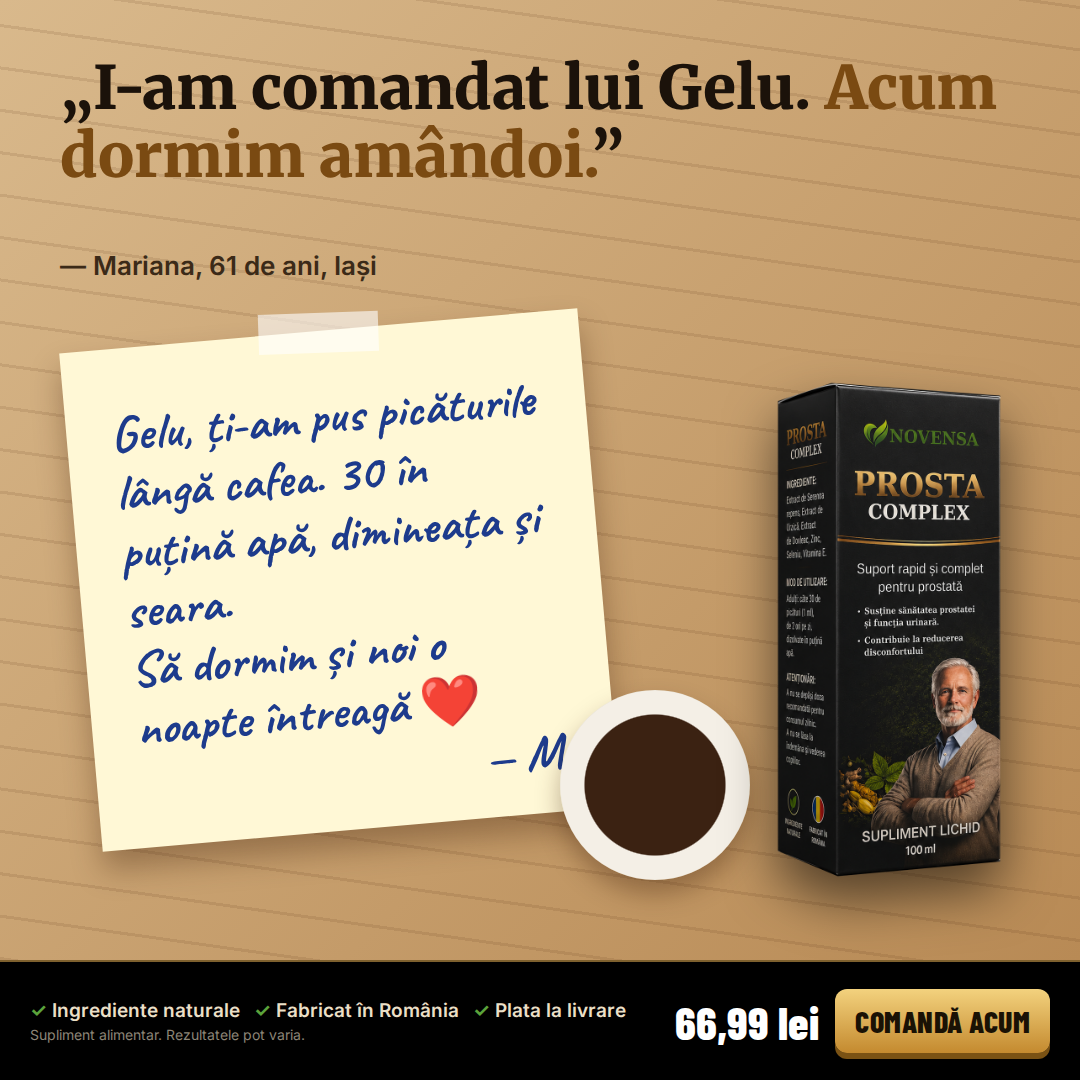
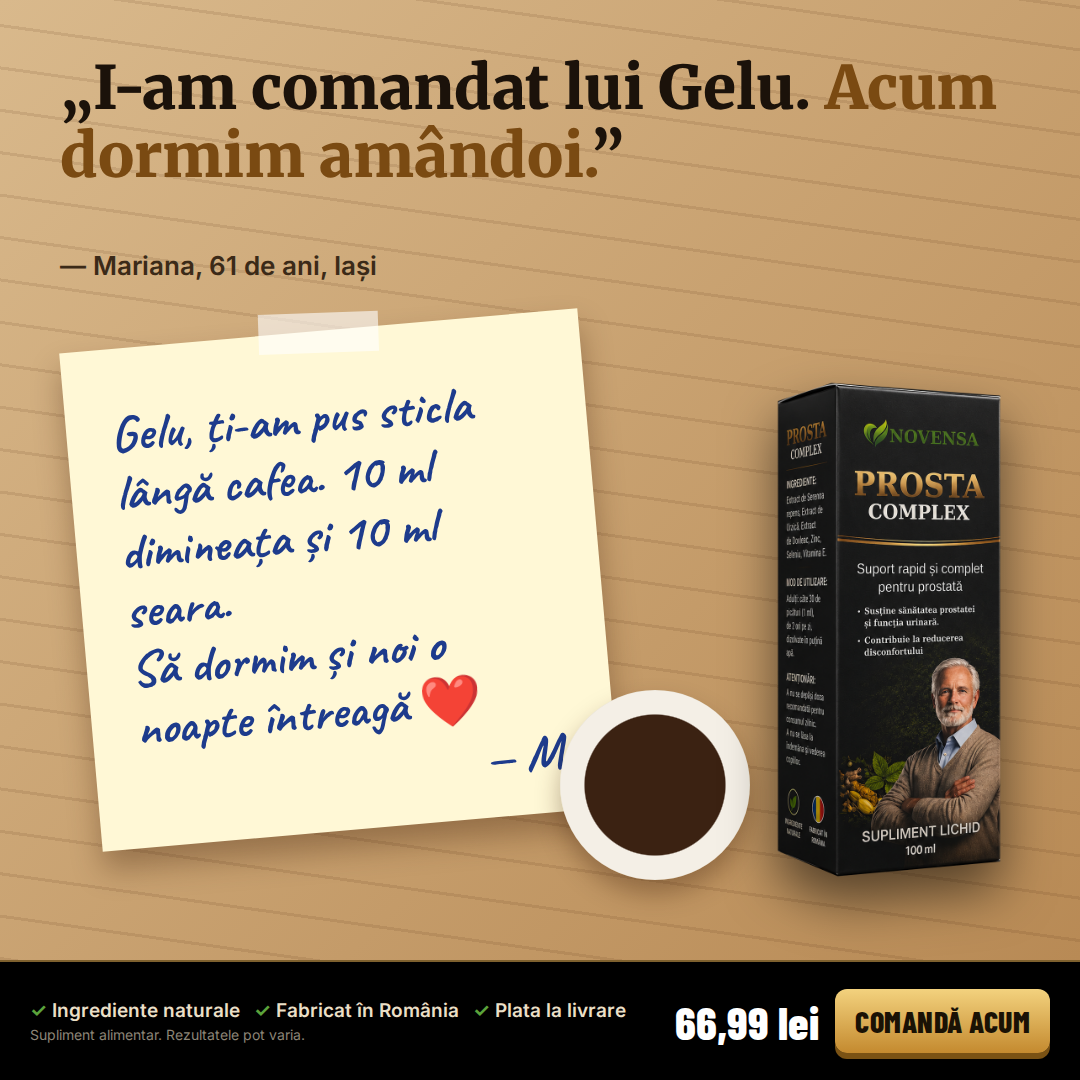
Update dosage to 10 ml twice a day and 15-day full cure across all ads
Claude-Session: https://claude.ai/code/session_01L9cV6zALUeAnbbGBkdurjz

diff --git a/brand/ads/ads.js b/brand/ads/ads.js
@@ -71,7 +71,7 @@ function chatAd() {
   const msgs = [
     ['in', 'Iar n-am dormit bine… m-am sculat de 4 ori azi-noapte 😔', '22:47'],
     ['out', 'Tată, ți-am comandat ceva. Vine mâine acasă, plătești la curier 📦', '22:49'],
-    ['out', 'Se numește PROSTA COMPLEX, de la Novensa. 30 de picături în puțină apă, de 2 ori pe zi. Te rog să le iei ❤', '22:50'],
+    ['out', 'Se numește PROSTA COMPLEX, de la Novensa. Iei câte 10 ml dimineața și seara. Te rog să-l iei ❤', '22:50'],
     ['in', 'Bine, mamă. Mulțumesc 🙏', '22:52'],
   ];
   return page(`
@@ -109,7 +109,7 @@ function noteAd() {
   `, `<div class="table"></div>
     <div class="h">„I-am comandat lui Gelu. <em>Acum dormim amândoi.</em>”</div>
     <div class="who">— Mariana, 61 de ani, Iași</div>
-    <div class="note">Gelu, ți-am pus picăturile lângă cafea. 30 în puțină apă, dimineața și seara.<br>Să dormim și noi o noapte întreagă ❤<br><span style="float:right">— M.</span></div>
+    <div class="note">Gelu, ți-am pus sticla lângă cafea. 10 ml dimineața și 10 ml seara.<br>Să dormim și noi o noapte întreagă ❤<br><span style="float:right">— M.</span></div>
     <div class="cup"></div>
     ${productBox(1.0, 'left:735px;top:400px')}${footer()}`);
 }
@@ -150,7 +150,7 @@ function routeAd() {
       <circle cx="600" cy="900" r="18" fill="#f3d27e"/><circle cx="1040" cy="40" r="18" fill="#5ba33b"/></svg>
     <div class="panel"></div>
     <div class="col">${tag('wheel', '<b>Petre, 58</b> · taximetrist, București')}<div class="h">„Ruta mea nu mai depinde <em>de toalete.</em>”</div><div class="rule" style="width:160px"></div>
-    <div class="sub">30 de picături dimineața, 30 seara.<br>PROSTA COMPLEX: Serenoa, urzică și dovleac pentru sănătatea prostatei.</div></div>
+    <div class="sub">10 ml dimineața, 10 ml seara.<br>PROSTA COMPLEX: Serenoa, urzică și dovleac pentru sănătatea prostatei.</div></div>
     ${productBox(1.0, 'left:720px;top:430px')}${footer()}`);
 }
 
@@ -168,7 +168,7 @@ function labelAd() {
   `, `<div class="bg"></div>
     <div class="who">${tag('glasses', '<b>Domnul Vasile, 70</b> · profesor de matematică, Cluj')}</div>
     <div class="h">„Am citit eticheta înainte să cumpăr. <em>Asta m-a convins.</em>”</div>
-    <div class="lab"><b>INGREDIENTE:</b><br><span class="hl">Extract de Serenoa repens</span>, extract de urzică, extract de dovleac, zinc, seleniu, vitamina E.<br><br><b>MOD DE UTILIZARE:</b><br>30 de picături (1 ml), de 2 ori pe zi, în puțină apă.</div>
+    <div class="lab"><b>INGREDIENTE:</b><br><span class="hl">Extract de Serenoa repens</span>, extract de urzică, extract de dovleac, zinc, seleniu, vitamina E.<br><br><b>MOD DE UTILIZARE:</b><br>10 ml, de 2 ori pe zi.<br>O cutie = 5 zile.</div>
     <div class="mag"></div>
     ${productBox(1.0, 'left:730px;top:400px')}${footer()}`);
 }
@@ -187,9 +187,9 @@ function compareAd() {
     .drop{position:absolute;width:26px;height:26px;background:#e3a33b;border-radius:0 50% 50% 50%;transform:rotate(45deg)}
     .cap{position:absolute;top:800px;font:600 26px/1.3 Inter;color:#eadfc6;text-align:center;width:420px}
   `, `<div class="l"></div><div class="r"></div>
-    <div class="h">„Nu încă o pastilă de înghițit.<br><em>30 de picături în puțină apă.</em>”</div>
+    <div class="h">„Nu încă o pastilă de înghițit.<br><em>10 ml dimineața, 10 ml seara.</em>”</div>
     <div class="lab" style="left:120px;color:#c9ccd2">Încă o capsulă?</div>
-    <div class="lab" style="left:640px;color:#f0c66a">Picături</div>
+    <div class="lab" style="left:640px;color:#f0c66a">Lichid</div>
     ${pills}<svg class="x" viewBox="0 0 400 400"><path d="M40 40L360 360M360 40L40 360" stroke="#e8463a" stroke-width="22" stroke-linecap="round" opacity=".85"/></svg>
     <div class="glass"></div><div class="drop" style="left:660px;top:470px"></div><div class="drop" style="left:664px;top:520px;transform:rotate(45deg) scale(.7)"></div>
     <div class="cap" style="left:60px">${tag('glasses', '<b>Domnul Vasile, 70</b>')}</div>
@@ -243,7 +243,7 @@ function odoAd() {
     .odo i{font:700 40px Barlow;color:#f0c66a;margin-left:10px;font-style:normal}
     .shade{position:absolute;left:0;top:0;width:800px;height:${H}px;background:linear-gradient(90deg,rgba(0,0,0,.8),rgba(0,0,0,0))}
   `, `${scene('road')}<div class="shade"></div>
-    <div class="col">${tag('truck', '<b>Dorin, 52</b> · șofer de TIR')}<div class="h">Kilometri,<br><em>nu opriri.</em></div><div class="odo">${digits}<i>km azi</i></div><div class="rule" style="width:160px"></div><div class="sub">30 de picături dimineața, 30 seara.<br>Între ele: drumul.</div></div>
+    <div class="col">${tag('truck', '<b>Dorin, 52</b> · șofer de TIR')}<div class="h">Kilometri,<br><em>nu opriri.</em></div><div class="odo">${digits}<i>km azi</i></div><div class="rule" style="width:160px"></div><div class="sub">10 ml dimineața, 10 ml seara.<br>Între ele: drumul.</div></div>
     ${productBox(1.05, 'left:720px;top:400px')}${footer()}`);
 }
 
@@ -281,7 +281,7 @@ module.exports = [
   { id: '01A-costica-natura', html: quoteAd({ sceneKey: 'honey', icon: 'bee', who: '<b>Nea Costică, 64</b> · apicultor, Vâlcea', quote: 'Am încredere în ce-mi dă natura. <em>De-asta am ales plantele.</em>', size: 64, sub: 'Serenoa repens, urzică și dovleac, plus zinc, seleniu și vitamina E. Supliment lichid fabricat în România.' }) },
   { id: '01B-costica-ingrediente', html: ingredientsAd() },
   // 2. Petre – taximetrist
-  { id: '02A-petre-12ore', html: quoteAd({ sceneKey: 'city', icon: 'wheel', who: '<b>Petre, 58</b> · taximetrist, București', quote: '12 ore pe zi la volan. <em>Nu-mi permit să caut toaleta la fiecare colț.</em>', size: 60, sub: 'PROSTA COMPLEX susține sănătatea prostatei și funcția urinară. 30 de picături, de 2 ori pe zi.' }) },
+  { id: '02A-petre-12ore', html: quoteAd({ sceneKey: 'city', icon: 'wheel', who: '<b>Petre, 58</b> · taximetrist, București', quote: '12 ore pe zi la volan. <em>Nu-mi permit să caut toaleta la fiecare colț.</em>', size: 60, sub: 'PROSTA COMPLEX susține sănătatea prostatei și funcția urinară. 10 ml, de 2 ori pe zi.' }) },
   { id: '02B-petre-ruta', html: routeAd() },
   // 3. Mariana – soția
   { id: '03A-mariana-dormim', html: noteAd() },
@@ -296,7 +296,7 @@ module.exports = [
   { id: '06A-fanica-pescuit', html: quoteAd({ sceneKey: 'dawn', icon: 'fish', who: '<b>Nea Fănică, 67</b> · pescar, Tulcea', quote: 'Vreau să stau la pescuit cu nepotul, <em>nu să fug la mal la fiecare oră.</em>', size: 56, sub: 'PROSTA COMPLEX: Serenoa, urzică și dovleac pentru sănătatea prostatei.', box: { s: .95, x: 760, y: 120 } }) },
   { id: '06B-fanica-nepoti', html: nepotAd() },
   // 7. Dorin – șofer de TIR
-  { id: '07A-dorin-autostrada', html: quoteAd({ sceneKey: 'road', icon: 'truck', who: '<b>Dorin, 52</b> · șofer de TIR', quote: 'Pe autostradă în Germania nu oprești când vrei. <em>Trebuia să fac ceva.</em>', size: 58, sub: '30 de picături dimineața, 30 seara. Supliment lichid pentru sănătatea prostatei și funcția urinară.', box: { s: 1.0, x: 740, y: 420 } }) },
+  { id: '07A-dorin-autostrada', html: quoteAd({ sceneKey: 'road', icon: 'truck', who: '<b>Dorin, 52</b> · șofer de TIR', quote: 'Pe autostradă în Germania nu oprești când vrei. <em>Trebuia să fac ceva.</em>', size: 58, sub: '10 ml dimineața, 10 ml seara. Supliment lichid pentru sănătatea prostatei și funcția urinară.', box: { s: 1.0, x: 740, y: 420 } }) },
   { id: '07B-dorin-kilometri', html: odoAd() },
   // 8. Domnul Aurel – discretul
   { id: '08A-aurel-jena', html: quoteAd({ sceneKey: 'elegant', icon: 'tie', who: '<b>Domnul Aurel, 62</b>', quote: 'Îmi era jenă să întreb pe cineva. <em>Am comandat discret, online.</em>', size: 64, sub: 'Fără rețetă, fără cozi la farmacie. Colet discret, plata la livrare.' }) },
@@ -305,6 +305,6 @@ module.exports = [
   { id: '09A-cuplu-prima-noapte', html: quoteAd({ sceneKey: 'sunrise', icon: 'moon', who: '<b>Gelu & Mariana</b> · 63 și 61, Ploiești', quote: 'Prima noapte întreagă de dormit, <em>după mult timp.</em>', size: 70, sub: 'PROSTA COMPLEX susține sănătatea prostatei și funcția urinară. Ingrediente naturale, fabricat în România.' }) },
   { id: '09B-cuplu-inainte-acum', html: splitAd() },
   // 10. Nea Ilie – tâmplar
-  { id: '10A-ilie-pastile', html: quoteAd({ sceneKey: 'wood', icon: 'saw', who: '<b>Nea Ilie, 66</b> · tâmplar, Maramureș', quote: 'Toată viața am lucrat cu mâinile. <em>Nu vreau să stau pe pastile.</em>', size: 62, sub: 'Supliment lichid: 30 de picături în puțină apă, de 2 ori pe zi. Ingrediente naturale.' }) },
+  { id: '10A-ilie-pastile', html: quoteAd({ sceneKey: 'wood', icon: 'saw', who: '<b>Nea Ilie, 66</b> · tâmplar, Maramureș', quote: 'Toată viața am lucrat cu mâinile. <em>Nu vreau să stau pe pastile.</em>', size: 62, sub: 'Supliment lichid: 10 ml, de 2 ori pe zi. Ingrediente naturale.' }) },
   { id: '10B-ilie-romania', html: madeAd() },
 ];

diff --git a/brand/premium/ads.js b/brand/premium/ads.js
@@ -104,7 +104,7 @@ ads.push({ id: 'P04-noi-vs-ei', html: page(`body{background:${C.cream}}
   `${logo(56, 56)}
   <div class="abs h" style="left:56px;top:140px;font-size:80px;color:${C.forest}">De ce <span class="it" style="color:${C.gold}">lichid?</span></div>
   <table><tr><th></th><th class="us">PROSTA<br>COMPLEX</th><th class="them">Capsule<br>obișnuite</th></tr>
-  <tr><td>Se dizolvă în puțină apă</td><td class="us ok">✓</td><td class="them no">✕</td></tr>
+  <tr><td>Formă lichidă, ușor de luat</td><td class="us ok">✓</td><td class="them no">✕</td></tr>
   <tr><td>Fără pastile de înghițit</td><td class="us ok">✓</td><td class="them no">✕</td></tr>
   <tr><td>Serenoa + urzică + dovleac</td><td class="us ok">✓</td><td class="them">?</td></tr>
   <tr><td>Zinc, seleniu, vitamina E</td><td class="us ok">✓</td><td class="them">?</td></tr>
@@ -142,9 +142,9 @@ ads.push({ id: 'P07-ritual', html: page(`body{background:${C.cream}}
   `${logo(56, 56)}
   <div class="abs h" style="left:56px;top:140px;font-size:78px;color:${C.forest}">Ritualul de <span class="it" style="color:${C.gold}">1 minut</span></div>
   <div class="line"></div>
-  <div class="step" style="top:300px"><div class="n">AM</div><div><b>30 de picături dimineața</b><span>dizolvate în puțină apă, lângă cafea</span></div></div>
-  <div class="step" style="top:500px"><div class="n">PM</div><div><b>30 de picături seara</b><span>același gest simplu, înainte de culcare</span></div></div>
-  <div class="step" style="top:700px"><div class="n">30</div><div><b>Zile de consecvență</b><span>pentru funcția urinară și confortul tău</span></div></div>
+  <div class="step" style="top:300px"><div class="n">AM</div><div><b>10 ml dimineața</b><span>un gest simplu, lângă cafea</span></div></div>
+  <div class="step" style="top:500px"><div class="n">PM</div><div><b>10 ml seara</b><span>același gest, înainte de culcare</span></div></div>
+  <div class="step" style="top:700px"><div class="n">15</div><div><b>Zile: cura completă</b><span>3 cutii, pentru funcția urinară și confortul tău</span></div></div>
   ${prod(700, 720, 200, -3)}${disc()}${foot(C.forest, '#fff')}`) });
 
 // 8. Stat
@@ -206,7 +206,7 @@ ads.push({ id: 'A01-cura-completa-190', html: page(`body{background:${RED};color
   `${tape(0, YEL, BLK, 'Transport gratuit la cura completă')}
   ${logo(56, 100, 44, 'filter:brightness(0) invert(1)')}
   <div class="abs big" style="left:56px;top:180px;font-size:88px">Cura<br>completă</div>
-  <div class="abs" style="left:60px;top:400px;font:800 34px Archivo">3 cutii PROSTA COMPLEX</div>
+  <div class="abs" style="left:60px;top:400px;font:800 34px Archivo">3 cutii · cura de 15 zile</div>
   <div class="abs" style="left:56px;top:470px;font:900 200px/1 Archivo;letter-spacing:-8px">190<span style="font-size:70px;letter-spacing:0"> lei</span></div>
   <div class="abs" style="left:60px;top:690px;font:700 34px Inter">în loc de <span class="strike">200,97 lei</span></div>
   <div class="btn" style="left:56px;top:790px;background:${YEL};color:${BLK}">Comandă acum →</div>
@@ -256,7 +256,7 @@ ads.push({ id: 'A05-transport-gratuit', html: page(`body{background:${C.forest};
   `${logo(56, 56, 44, 'filter:brightness(0) invert(1)')}
   <div class="abs big" style="left:50px;top:140px;font-size:118px;color:${YEL}">Transport</div>
   <div class="abs big" style="left:50px;top:250px;font-size:118px">gratuit</div>
-  <div class="abs" style="left:58px;top:380px;font:800 38px Archivo">la cura completă de 3 cutii</div>
+  <div class="abs" style="left:58px;top:380px;font:800 38px Archivo">la cura completă: 3 cutii, 15 zile</div>
   <div class="abs" style="left:56px;top:540px;font:900 150px/1 Archivo;letter-spacing:-6px">190<span style="font-size:56px;letter-spacing:0"> lei</span></div>
   <div class="abs" style="left:60px;top:710px;font:600 30px Inter;opacity:.9">Plătești la livrare, când primești coletul.</div>
   <div class="btn" style="left:56px;top:800px;background:${YEL};color:${BLK}">Comandă acum →</div>
@@ -271,7 +271,7 @@ ads.push({ id: 'A06-3-motive', html: page(`body{background:#fff}${AGG}
   <div class="abs big" style="left:56px;top:140px;font-size:84px">3 motive pentru <span style="color:${RED}">cura completă</span></div>
   <div class="r" style="top:380px"><div class="n">1</div><div><b>Transport gratuit</b><span>la pachetul de 3 cutii</span></div></div>
   <div class="r" style="top:530px"><div class="n">2</div><div><b>Plătești mai puțin</b><span>190 lei în loc de 200,97 lei</span></div></div>
-  <div class="r" style="top:680px"><div class="n">3</div><div><b>Nu rămâi fără</b><span>la jumătatea curei</span></div></div>
+  <div class="r" style="top:680px"><div class="n">3</div><div><b>Toată cura de 15 zile</b><span>dintr-o singură comandă</span></div></div>
   ${stack3(520, 610, 380)}${foot(BLK, '#fff')}`) });
 
 // A07 – before/after aggressive split
@@ -305,7 +305,7 @@ ads.push({ id: 'A08-plata-la-livrare', html: page(`body{background:${C.cream}}${
 ads.push({ id: 'A09-atentie-barbati', html: page(`body{background:${BLK};color:#fff}${AGG}`,
   `${tape(70, YEL, BLK, 'Atenție · Atenție · Atenție')}
   <div class="abs big" style="left:56px;top:190px;width:680px;font-size:96px">Nu-ți mai planifica ziua <span style="color:${YEL}">după toaletă.</span></div>
-  <div class="abs" style="left:60px;top:560px;width:540px;font:600 30px/1.35 Inter;color:#ddd">30 de picături, de 2 ori pe zi. Susține funcția urinară și sănătatea prostatei.</div>
+  <div class="abs" style="left:60px;top:560px;width:540px;font:600 30px/1.35 Inter;color:#ddd">10 ml, de 2 ori pe zi. Susține funcția urinară și sănătatea prostatei.</div>
   <div class="abs" style="left:60px;top:720px;font:900 44px Archivo">1 cutie <span style="color:${YEL}">66,99 lei</span></div>
   <div class="btn" style="left:56px;top:800px;background:${YEL};color:${BLK}">Comandă acum →</div>
   ${prod(680, 690, 230, 5)}${disc('Supliment alimentar.', '#fff')}${foot(RED, '#fff')}`) });
